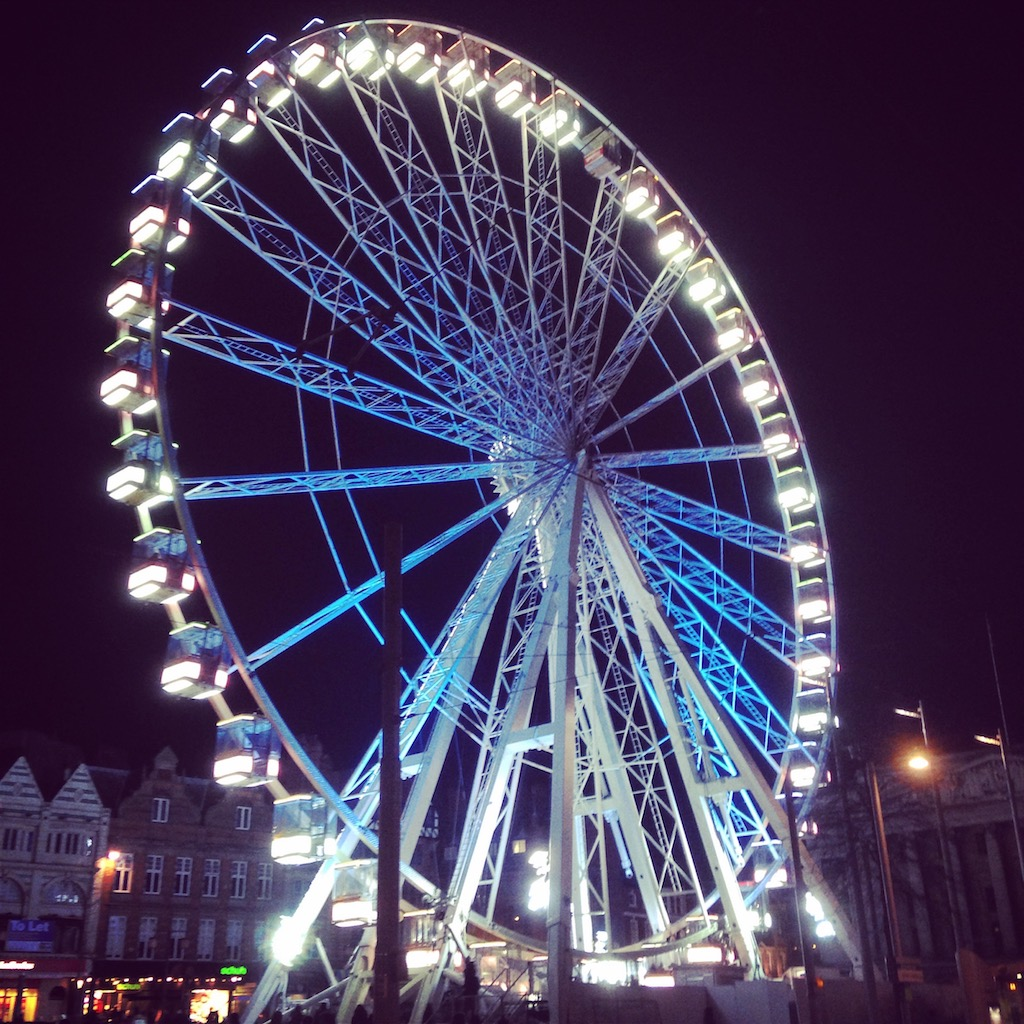
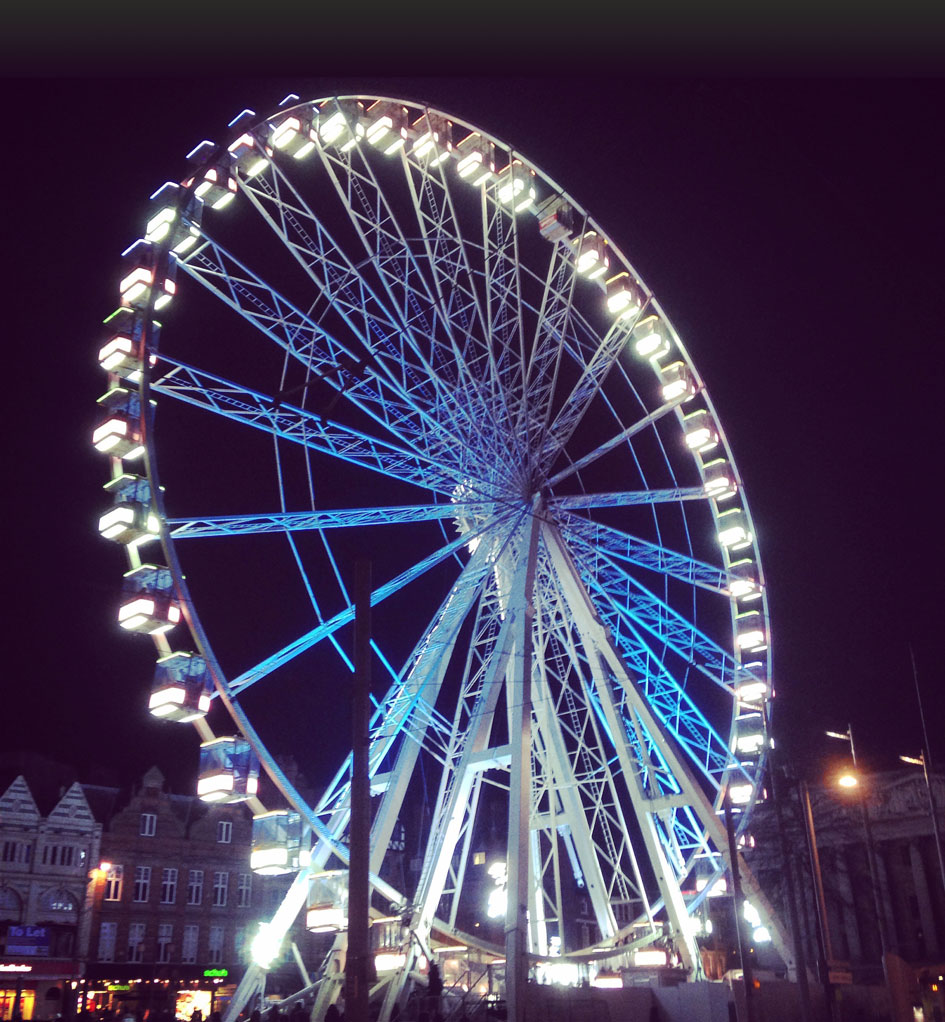
image for mobile

diff --git a/css/main.css b/css/main.css
@@ -1,2 +1,2 @@
-body,html,ol,ul{margin:0;padding:0}html{font:normal 1rem normal Raleway,Helvetica Neue,Arial,sans-serif}h1{font-family:Playfair Display,Times New Roman,Times,serif;text-transform:uppercase}h1,h2{text-align:center}h2{font-family:Raleway,Helvetica Neue,Arial,sans-serif}nav ul{text-transform:uppercase;font-size:14px}body{background-color:#292927;color:ivory}header{background-color:#8100df}h1{color:ivory}h2{color:#cafa13}.vertical-center,header{display:-ms-flexbox;display:flex;-ms-flex-pack:center;justify-content:center}.vertical-center{-ms-flex-align:center;align-items:center}nav{background-color:ivory}nav ul{color:#292927;list-style-type:none;margin:4px 0}nav ul li{display:inline-block;padding-left:8px}nav ul li:first-of-type{padding-left:4px}body{min-height:100vh;display:-ms-flexbox;display:flex;-ms-flex-direction:column;flex-direction:column;-ms-flex-line-pack:center;align-content:center}main{-ms-flex:1;flex:1;-ms-flex-pack:end;justify-content:flex-end}main p{font-size:.8em;padding:0 12px}#main_image{-ms-flex:1 2;flex:1 2;-ms-flex-item-align:center;-ms-grid-row-align:center;align-self:center;max-width:100%;opacity:.25}@media only screen and (min-device-width:320px){#main_image{max-width:80%}}
+body,html,ol,ul{margin:0;padding:0}*{box-sizing:border-box}html{font:normal 1rem normal Raleway,Helvetica Neue,Arial,sans-serif}h1{font-family:Playfair Display,Times New Roman,Times,serif;text-transform:uppercase}h1,h2{text-align:center}h2{font-family:Raleway,Helvetica Neue,Arial,sans-serif}nav ul{text-transform:uppercase;font-size:14px}body{background-color:#292927;color:ivory}header{background-color:#8100df}h1{color:ivory}h2{color:#cafa13}.vertical-center,header{display:-ms-flexbox;display:flex;-ms-flex-pack:center;justify-content:center}.vertical-center{-ms-flex-align:center;align-items:center}nav{background-color:ivory}nav ul{color:#292927;list-style-type:none;margin:4px 0}nav ul li{display:inline-block;padding-left:8px}nav ul li:first-of-type{padding-left:4px}body{min-height:100vh;display:-ms-flexbox;display:flex;-ms-flex-direction:column;flex-direction:column;-ms-flex-line-pack:center;align-content:center}main{-ms-flex:1;flex:1;-ms-flex-pack:end;justify-content:flex-end}main p{font-size:.8em;padding:0 12px}#photograph{display:-ms-flexbox;display:flex;-ms-flex-direction:column;flex-direction:column;-ms-flex-line-pack:center;align-content:center;width:100%;max-height:500px}img#main_image{max-width:100%;max-height:80%;opacity:.25}
 /*# sourceMappingURL=main.css.map */

diff --git a/src/sass/_scaffolding.scss b/src/sass/_scaffolding.scss
@@ -1,5 +1,7 @@
 // set fonts
-
+* {
+	box-sizing: border-box;
+}
 html {
 	font: $font-style $font-size $font-weight $font-family;
 }
@@ -81,8 +83,6 @@ body {
 
 main {
 	flex: 1;
-
-	
 	justify-content: flex-end;
 
 	p {
@@ -91,12 +91,17 @@ main {
 	}
 }
 
-#main_image {
-	flex: 1 2;
-	align-self: center;
+#photograph {
+	display: flex;
+	flex-direction: column;
+	align-content: center;
+	width: 100%;
+	max-height: 500px;
+}
+
+img#main_image {
 	max-width: 100%;
-	opacity: 0.25;	
-	@media only screen and ('min-device-width: 320px') {
-		max-width: 80%;
-	}
+	max-height: 80%;
+	opacity: $img_opacity;
+
 }

diff --git a/index.html b/index.html
@@ -29,7 +29,10 @@
 
 <p>I’ve always had a keen interest in technology and studied computer science at the University of Lincoln where I gained a BSc (Hons) degree.</p>
 </main>
-<img src="img/wheel.jpg" id="main_image" alt="Big Wheel in Nottingham city centre">
+<div id="photograph">
+	<img src="img/wheel.jpg" id="main_image" alt="Big Wheel in Nottingham city centre">
+</div>
+
 <!-- <aside id="photograph">
 	<img src="img/wheel.jpg" id="main_image" alt="Big Wheel in Nottingham city centre">
 </aside> -->

diff --git a/src/sass/_variables.scss b/src/sass/_variables.scss
@@ -6,6 +6,9 @@ $font-weight: normal;
 $font-family: Raleway, Helvetica Neue, Arial, sans-serif;
 $header-font: Playfair Display, Times New Roman, Times, serif;
 
+// Others
+
+$img_opacity: 0.25;
 
 // Colours
 
@@ -15,3 +18,6 @@ $h1col: #fffff0;
 $subheading: #cafa13;
 $navbg: #fffff0;
 $text-col: #fffff0;
+$imgtopcol: rgba(31,7,33, $img_opacity);
+
+
